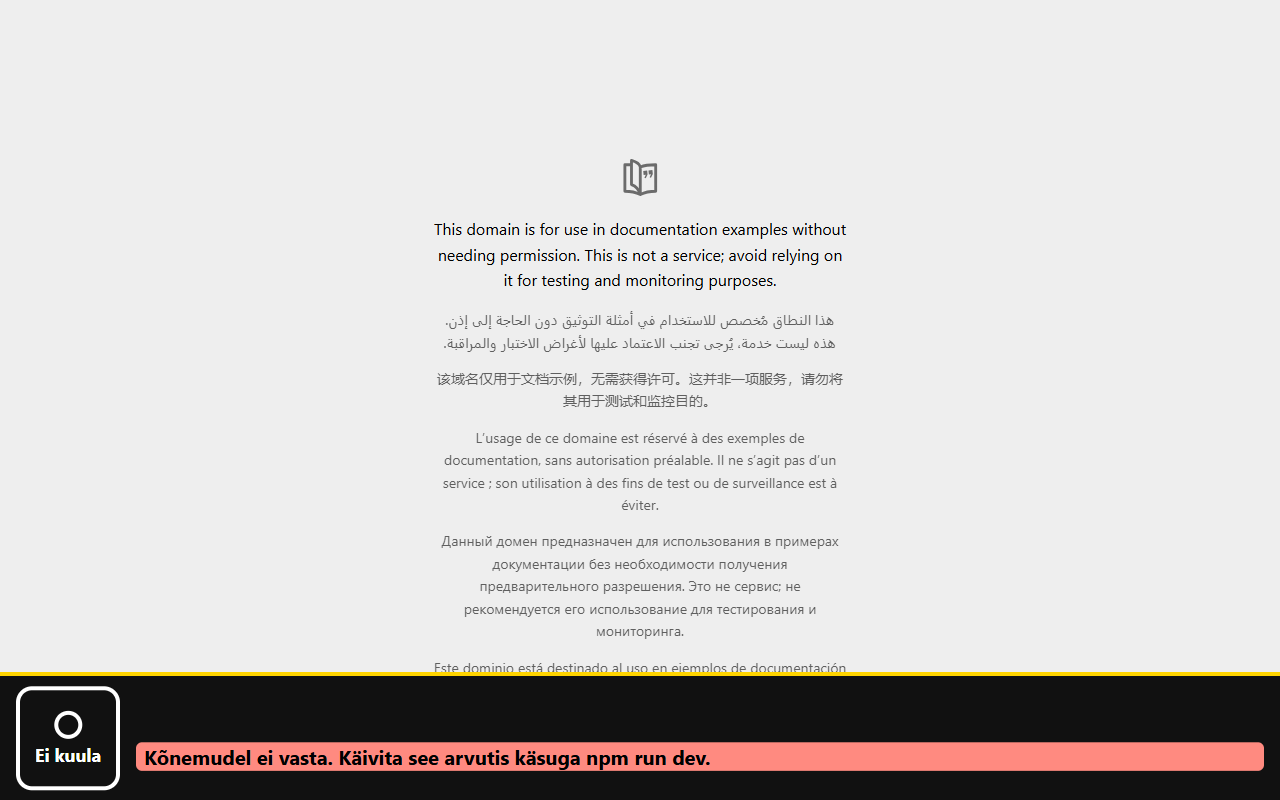
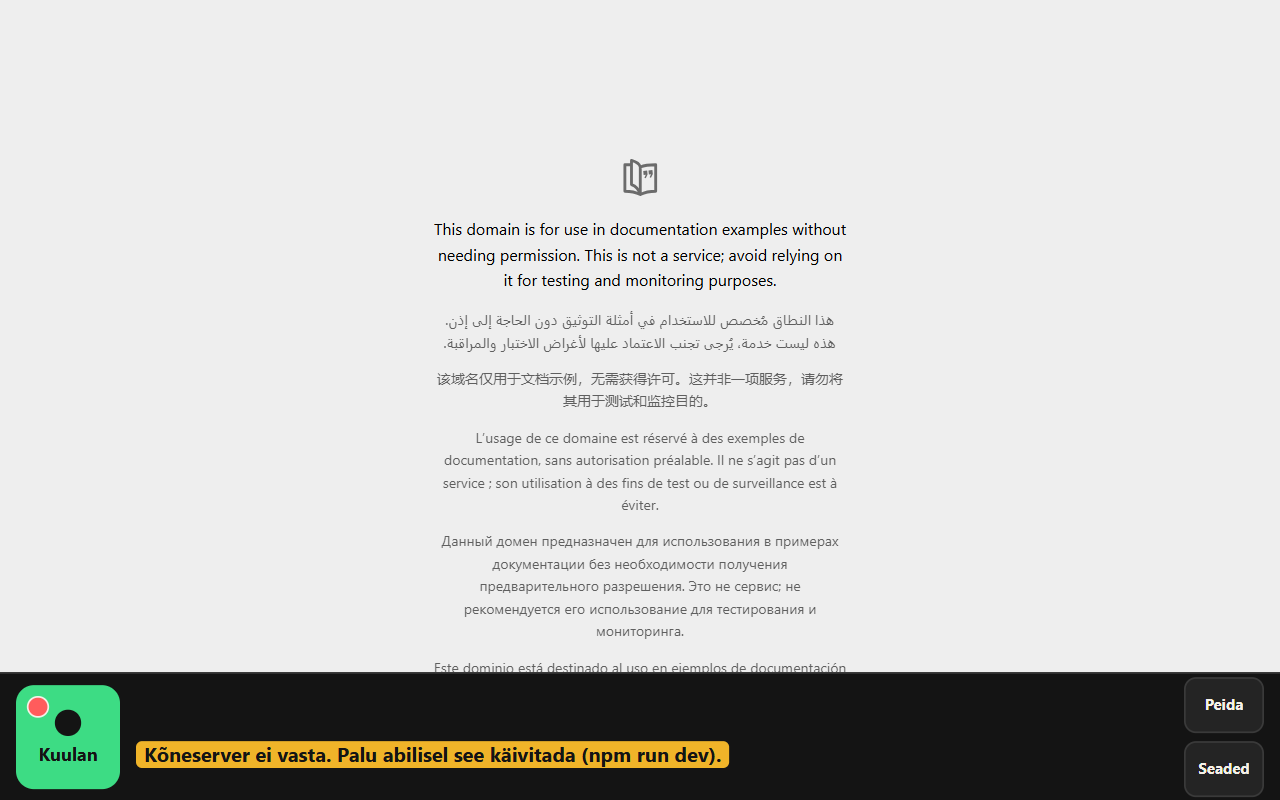
docs, tests: first-run README and HANDOFF 1k-ONBOARD, voice.ts down and install for the welcome page, proofs

Changed region(s): [[0.0, 0.8125, 1.0, 1.0]]

diff --git a/extension/test/voice.ts b/extension/test/voice.ts
@@ -27,6 +27,7 @@ const ASR = `ws://localhost:${PORT}/api/asr`
 const proof = (name: string): string => join(repoRoot, 'docs/proof', name)
 
 interface Measure {
+  connection?: string
   strip: { left: number; top: number; width: number; height: number }
   mic: { left: number; top: number; width: number; height: number }
   micState: string
@@ -119,13 +120,19 @@ async function launch(extensionDir: string, wav: string | null): Promise<Session
   // Headed: Playwright's headless Chromium crashes as soon as the extension's service worker is evaluated.
   const ctx = await chromium.launchPersistentContext(profile, { channel: 'chromium', headless: false, viewport: { width: 1280, height: 800 }, args })
   const permission: Session['permission'] = { opened: 0, closedAfterMs: null }
+  // Round 9 (30.1): the install opens the welcome page; its step 1 asks for the microphone. Once
+  // that card ticks the test closes it, as the old permission page closed itself.
   const watch = (p: Page): void => {
-    if (!p.url().includes('/permission.html')) return
+    if (!p.url().includes('/welcome.html')) return
     permission.opened += 1
     const t0 = Date.now()
     p.on('close', () => {
       permission.closedAfterMs = Date.now() - t0
     })
+    void p
+      .waitForSelector('#stepMic[data-done="true"]', { timeout: 8000 })
+      .then(() => p.close())
+      .catch(() => undefined)
   }
   ctx.on('page', (p) => {
     // The url is known once it commits.
@@ -210,7 +217,7 @@ async function dictateAndSend(extensionDir: string, baseline: boolean): Promise<
     await page.bringToFront()
     await page.waitForFunction(() => (window as unknown as { lexicalReady?: boolean }).lexicalReady === true)
     const permissionClosed = await waitUntil(async () => s.permission.closedAfterMs !== null, 8000)
-    check('7. permission page opened on install and closed itself', s.permission.opened === 1 && permissionClosed, `opened=${s.permission.opened} closed after ${s.permission.closedAfterMs} ms`)
+    check('7. welcome page opened on install, its microphone step ticked', s.permission.opened === 1 && permissionClosed, `opened=${s.permission.opened} closed after ${s.permission.closedAfterMs} ms`)
 
     await sleep(1200)
     const m = await stripChecks(s.sw, page, CHAT, '#composer', '4. chat fixture (composer at the bottom, % heights)')
@@ -446,22 +453,26 @@ async function serverDown(extensionDir: string): Promise<void> {
     await sleep(10_000)
     const st = await state(s.sw)
     const shown = await measure(s.sw, url)
-    console.log(`      after 10 s: listening=${st?.listening} connects=${st?.connects} strip line=${JSON.stringify(shown?.line)}`)
-    check('6. strip says plainly that the speech model is not reachable', shown?.line === STRINGS.et.strip.modelUnreachable && st?.listening === false)
-    check('6. no retry storm: at most 3 connection attempts in 10 s', (st?.connects ?? 99) <= 3, `connects=${st?.connects}`)
+    console.log(`      after 10 s: listening=${st?.listening} connects=${st?.connects} strip line=${JSON.stringify(shown?.line)} dot=${shown?.connection}`)
+    // Round 9 (30.1): a local address says the local line, listening stays on, the dot is red.
+    check('6. strip says the local server-down line, listening stays on', shown?.line === STRINGS.et.strip.serverDownLocal && st?.listening === true && shown?.connection === 'down', JSON.stringify(shown?.line))
+    // Tries after 1, 2, 4 then every 5 s: four in the first 10 s.
+    check('6. no retry storm: at most 5 connection attempts in 10 s', (st?.connects ?? 99) <= 5, `connects=${st?.connects}`)
     await page.screenshot({ path: proof('inpage-unreachable.png') })
 
     console.log(`      START THE DEV SERVER NOW (npx vite --port ${PORT} --strictPort); waiting up to 90 s`)
     const up = await waitUntil(serverUp, 90_000)
     if (!up) throw new Error('the dev server did not come up')
-    await sleep(6000)
-    await page.mouse.click(m.mic.left + m.mic.width / 2, m.mic.top + m.mic.height / 2)
-    await page.mouse.move(640, 200)
-    await sleep(4000)
-    const back = await state(s.sw)
+    // No toggle: the next try (at most 5 s later) finds it, once the model has loaded.
+    const back = await waitUntil(async () => (await state(s.sw))?.line === STRINGS.et.strip.serverBack, 120_000)
+    await sleep(3000)
+    const now = await state(s.sw)
     const line = await measure(s.sw, url)
-    console.log(`      after toggling again: listening=${back?.listening} problem=${JSON.stringify(back?.problem)} micOpens=${back?.micOpens} strip line=${JSON.stringify(line?.line)}`)
-    check('6. with the server back, toggling again recovers', back?.listening === true && back.problem === '' && back.micOpens === 1)
+    const downs = s.trail.filter((e) => e.includes(JSON.stringify(STRINGS.et.strip.serverDownLocal))).length
+    const backs = s.trail.filter((e) => e.includes(`line=${JSON.stringify(STRINGS.et.strip.serverBack)}`)).length
+    console.log(`      back by itself: listening=${now?.listening} problem=${JSON.stringify(now?.problem)} micOpens=${now?.micOpens} strip line=${JSON.stringify(line?.line)} dot=${line?.connection}; down-line states seen ${downs}, back-line states seen ${backs}`)
+    check('6. with the server back, "Server vastab jälle." once, microphone open, no toggle', back && backs === 1 && now?.listening === true && now.problem === '' && now.micOpens === 1 && line?.connection === 'connected')
+    check('6. the down line was shown for one outage only (one run of trail states)', downs >= 1 && s.trail.findIndex((e) => e.includes(JSON.stringify(STRINGS.et.strip.serverDownLocal))) + downs - 1 === s.trail.map((e, i) => (e.includes(JSON.stringify(STRINGS.et.strip.serverDownLocal)) ? i : -1)).filter((i) => i >= 0).pop())
   } finally {
     await close(s)
   }

diff --git a/extension/test/run.ts b/extension/test/run.ts
@@ -1519,7 +1519,10 @@ async function main(): Promise<void> {
         const okClass = await page.evaluate(() => document.getElementById('stepServerResult')?.classList.contains('ok') === true)
         check('welcome-server: the right token reads "Ühendus töötab" and the profile line, green; the card ticks', right.startsWith('Ühendus töötab') && right.endsWith('Profiil: ralf, hääl õpetamata.') && okClass && (await page.getAttribute('#stepServer', 'data-done')) === 'true', JSON.stringify(right))
         check('connection dot: data-connection connecting / down / connected, with the Estonian word', amber?.connection === 'connecting' && amber.connectionWord === 'Ühendan' && red?.connection === 'down' && red.connectionWord === 'Server ei vasta' && green?.connection === 'connected' && green.connectionWord === 'Ühendatud', JSON.stringify([amber, red, green]))
-        await page.locator('#stepServer').evaluate((el) => el.scrollIntoView({ block: 'center' }))
+        // Tall enough that the card sits whole above the strip along the bottom.
+        await page.setViewportSize({ width: 1280, height: 1500 })
+        await page.locator('#stepServer').evaluate((el) => el.scrollIntoView({ block: 'start' }))
+        await page.waitForTimeout(200)
         await page.locator('#stepServer').screenshot({ path: join(repoRoot, 'docs/proof/r9-welcome-server.png') })
         // The dot, with its word shown while the pointer is on the microphone (moved off before the 1 s dwell).
         const m = (await sw.evaluate(async (id) => chrome.tabs.sendMessage(id, { type: 'utle-strip-measure' }), tabId)) as { mic: { left: number; top: number; width: number; height: number } }
@@ -1552,8 +1555,13 @@ async function main(): Promise<void> {
       const ticked = await waitUntil(async () => (await page.getAttribute('#stepTry', 'data-done')) === 'true', 4000)
       const works = (await page.locator('#stepTryResult').textContent()) ?? ''
       line('setText', 'welcome: "tere" into the armed demo box, card ticks', box.armed && typed && demoText.trim().toLowerCase().replace(/[^\p{L}]/gu, '') === 'tere' && ticked && works === 'Töötab.', `box=${JSON.stringify(box)} commands=${JSON.stringify(step.commands)} demo=${JSON.stringify(demoText)} result=${JSON.stringify(works)}`)
+      // The whole page in one viewport, so the strip is at the bottom where it belongs (fullPage would draw it mid-page).
+      const tall = await page.evaluate(() => document.documentElement.scrollHeight)
+      await page.setViewportSize({ width: 1280, height: Math.min(tall, 4000) })
       await page.evaluate(() => window.scrollTo(0, 0))
-      await page.screenshot({ path: join(repoRoot, 'docs/proof/r9-welcome.png'), fullPage: true })
+      await page.waitForTimeout(300)
+      await page.screenshot({ path: join(repoRoot, 'docs/proof/r9-welcome.png') })
+      await page.setViewportSize({ width: 1280, height: 800 })
 
       // The toolbar menu's handler: Alustamine, Seaded, Abi.
       const callMenu = async (id: string): Promise<void> => sw.evaluate(async (item) => (globalThis as unknown as { __utleMenu: (i: string) => Promise<void> }).__utleMenu(item), id)

diff --git a/extension/README.md b/extension/README.md
@@ -27,9 +27,22 @@ From the repository root:
    server's log lines" below).
 2. Open `chrome://extensions`, turn on **Developer mode** (top right).
 3. **Load unpacked**, choose the `extension/` folder (not `dist/`).
-4. Pin the Ütle icon (puzzle piece, then the pin).
-5. If the server runs at another address, set it on the settings page under **Server** (see "Hosted
-   server" below); it takes effect the next time listening is turned on.
+4. Right after loading, the welcome page **Alustamine** opens by itself (ARCHITECTURE 30.1). A
+   helper walks its five cards, each a large button that takes a click or a 1 s dwell, Estonian
+   first with English under it:
+   1. **Mikrofon**: Chrome asks to use the microphone; press **Allow**. The card ticks.
+   2. **Kõneserver**: **Samas arvutis** when `npm run dev` runs on this computer, or **Teises
+      arvutis** with the server's address (`wss://…/api/asr`) and võti. **Proovi ühendust** says
+      "Ühendus töötab" and the profile, "Vale võti." or "Ei saa ühendust." with what to do.
+   3. **Proovi**: press the microphone on the bar and say "tere"; the word lands in the box and the
+      card says "Töötab."
+   4. **Hääl** (optional): **Õpeta mu hääl lausetega** opens the settings page at Minu hääl.
+   5. **Valmis**: three phrases to start with, **Abi** and **Seaded**.
+5. Pin the Ütle icon (puzzle piece, then the pin). Right-click it for **Alustamine**, **Seaded** and
+   **Abi**. By voice, "ava juhend" or "alustamine" ("setup", "open the guide") opens the welcome page
+   again.
+6. If the server runs at another address, the welcome page's step 2 or the settings page's **Server**
+   (see "Hosted server" below) sets it; it takes effect the next time listening is turned on.
 
 ## Soniox instead of the local model (optional)
 
@@ -160,10 +173,21 @@ What the listing needs that the repository cannot hold:
 
 ## Grant the microphone (once, done by a helper)
 
-1. Right after loading, a tab "Ütle vajab mikrofoni" opens by itself.
-2. Chrome asks to use the microphone: press **Allow**.
-3. The tab closes itself. That is all; it does not come back unless the permission is removed.
-4. If it was refused, turning the microphone on opens the same tab again; press **Allow** there.
+1. Step 1 of the welcome page asks as soon as it opens: press **Allow** in Chrome's question.
+2. Refused: the card says how to allow it (the lock icon in the address bar) and shows **Proovi
+   uuesti**.
+3. If the permission is removed later, turning the microphone on opens the small "Ütle vajab
+   mikrofoni" tab, which asks again and closes itself.
+
+## The connection dot and the server-down lines (round 9, ARCHITECTURE 30.1)
+
+A dot in the top-left corner of the microphone square: green **Ühendatud**, amber **Ühendan**, red
+**Server ei vasta** (the word shows on hover). While listening, a lost or refused connection is
+tried again after 1, 2, 4 and then every 5 s, and the bar says once "Kõneserver ei vasta. Palu
+abilisel see käivitada (npm run dev)." (a local address) or "Kõneserver ei vasta. Kontrolli
+internetiühendust või palu abilisel vaadata serverit." (a hosted one); a wrong token keeps "Serveri
+võti on vale.". When the server answers again the microphone reopens by itself and the bar says
+"Server vastab jälle." once.
 
 ## Use
 

diff --git a/HANDOFF.md b/HANDOFF.md
@@ -471,6 +471,31 @@ this order: on any news page say "loe ette" in Edge (network voices on in Edge's
 bar must say there is no Estonian voice); on YouTube "keri edasi üks minut"; in Gmail "kirjuta meil <nimi>",
 "teema: proov", dictate, "saada".
 
+## 1k-ONBOARD. Round 9, ONBOARD lane (2026-10-27): the first run for a helper
+
+What works (ARCHITECTURE 30.1): the install opens `extension/welcome.html` (**Alustamine**) instead
+of the bare microphone page: five dwellable cards, Estonian with English under (Mikrofon, Kõneserver
+with **Samas arvutis** / **Teises arvutis** and **Proovi ühendust**, Proovi with an armed demo box,
+Hääl, Valmis). "ava juhend", "alustamine", "setup", "open the guide" reopen it (rules only); the
+toolbar icon's right-click menu has Alustamine, Seaded, Abi (Abi opens `help.html` when lane HELP's
+page is in the build, else the extension README on GitHub). While listening the extension never
+gives up on the server: it tries again after 1, 2, 4, then every 5 s, says once "Kõneserver ei
+vasta. Palu abilisel see käivitada (npm run dev)." (local address) or the hosted line, and once
+"Server vastab jälle." when it is back; the microphone reopens by itself. A dot on the microphone
+square shows the connection (green Ühendatud, amber Ühendan, red Server ei vasta).
+
+Proof: suite cases `welcome`, `welcome-server`, the connection dot and the menu in
+`extension/test/run.ts` (ALL PASS); `docs/proof/r9-welcome.png`, `r9-welcome-server.png`,
+`r9-strip-connection.png`; vitest "server down|server back|hosted" and "juhend|alustamine";
+`UTLE_REAL=1 npx tsx extension/test/voice.ts` ALL PASS and `voice.ts down` (local line once, back
+line once, no toggle).
+
+Not verified: a real helper doing the first run; the install flow of branded Chrome from the Web
+Store (only the unpacked load and Playwright's fresh profile were run); the dot while not listening
+shows the last status check and is not polled, so a server that dies while idle stays green until
+the next listen. Step 3's "a final landed" is "the words stood still for 1 s", not a signal from
+the engine.
+
 ## 1a. The eval, run by Ralf on 2026-10-05 evening with his key
 
 - As first shipped: 0 of 62, every call a 400 "The compiled grammar is too large. Simplify your tool

diff --git a/README.md b/README.md
@@ -117,8 +117,10 @@ Every step is run from a terminal. Steps 1 to 5 are done once.
    1. Open `chrome://extensions`.
    2. Turn on **Developer mode** (top right).
    3. Press **Load unpacked** and choose the `extension` folder inside `utle` (not `extension/dist`).
-   4. A tab "Ütle vajab mikrofoni" opens by itself. When Chrome asks to use the microphone, press
-      **Allow**. The tab closes itself.
+   4. The welcome page **Alustamine** opens by itself. Walk its five cards: allow the microphone,
+      choose where the server runs (**Samas arvutis**, or **Teises arvutis** with its address and
+      võti) and press **Proovi ühendust**, then say "tere" into the test box. Right-click the Ütle
+      icon, or say "ava juhend", to open it again.
    5. Pin the Ütle icon: the puzzle piece in the toolbar, then the pin.
    6. Open a new tab. If Chrome asks whether to keep the changed new-tab page, choose **Keep it**.
 
